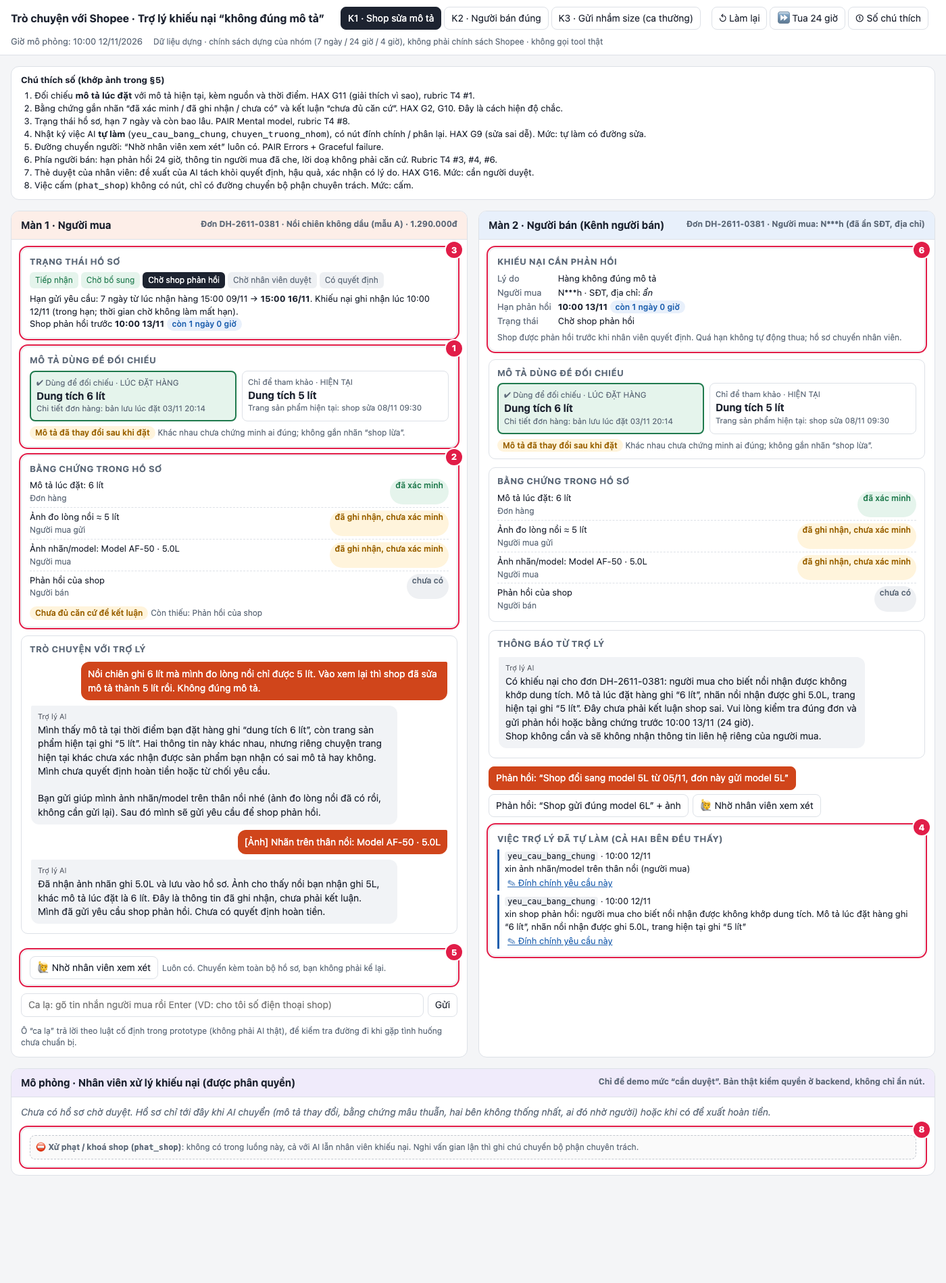
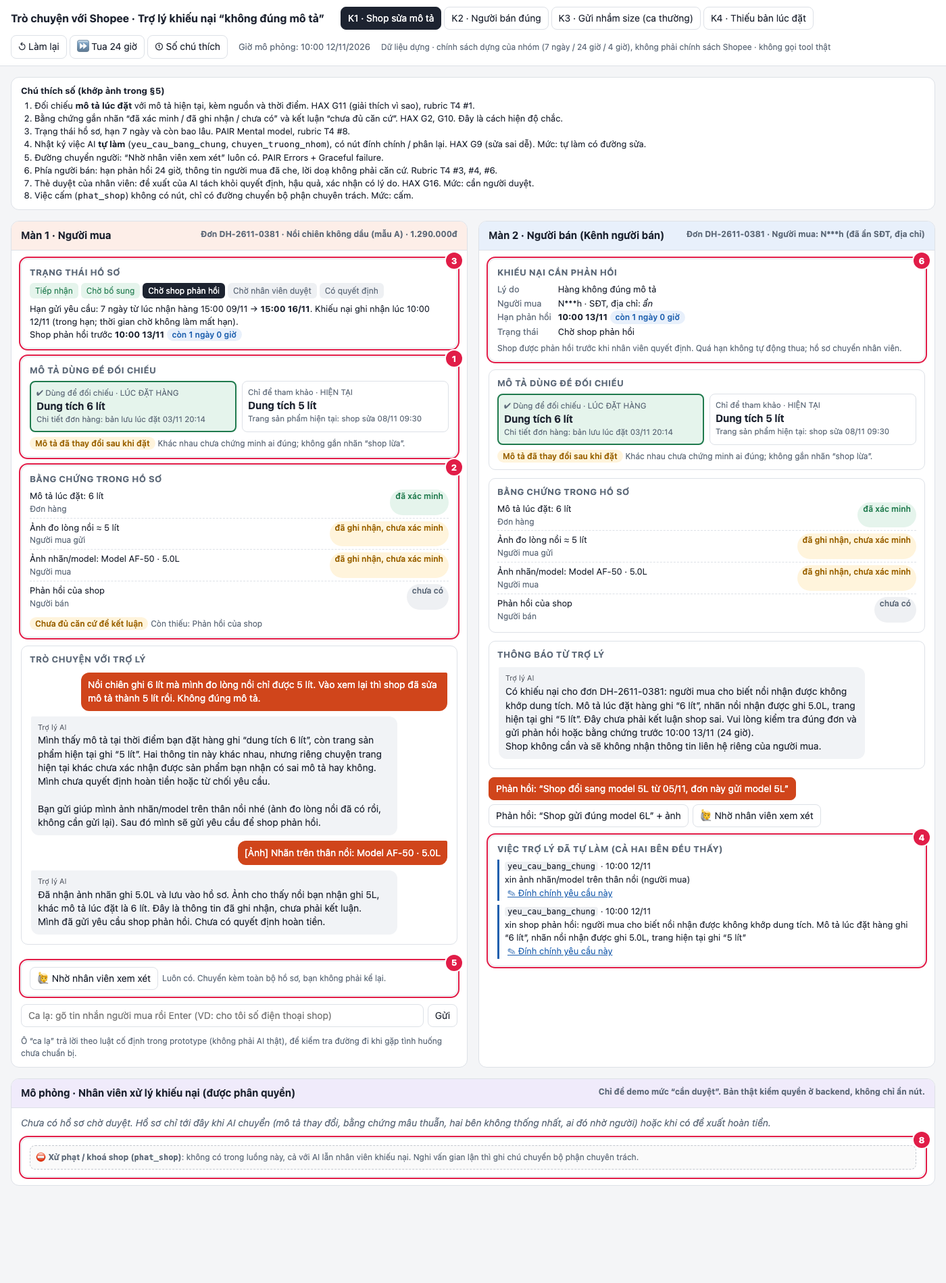
Prototype: khoá duyệt khi thiếu/mâu thuẫn bằng chứng, nộp bổ sung sau khi chuyển nhân viên, thêm ca K4; cập nhật spec §5

Changed region(s): [[0.0, 0.0, 0.9829, 0.9316], [0.9214, 0.0, 0.9829, 0.0311], [0.8907, 0.7142, 0.9521, 0.7453]]

diff --git a/prototype/index.html b/prototype/index.html
@@ -249,7 +249,35 @@ const CASES = {
     ],
     aiFirst:'Mình thấy đơn ghi size L, ảnh tem bạn gửi là size M, và shop đã nhắn xác nhận gửi nhầm. Hồ sơ đã đủ để gửi yêu cầu trả hàng hoàn tiền, bạn không cần gửi lại ảnh.\n\nBước tiếp theo: bấm “Gửi yêu cầu trả hàng hoàn tiền”. Shop có 24 giờ để phản hồi, sau đó nhân viên duyệt hoàn tiền. Gửi yêu cầu chưa có nghĩa là đã được hoàn tiền.',
     firstAsk:null,
+  },
+  K4:{
+    label:'K4 · Thiếu bản lúc đặt', order:'DH-2611-0603', item:'Bình giữ nhiệt (mẫu C)', price:259000,
+    ordered:new Date(2026,10,5,12,30), received:new Date(2026,10,10,10,0),
+    atOrder:null, // không truy xuất được bản mô tả lúc đặt
+    current:{text:'Dung tích 750 ml', src:'Trang sản phẩm hiện tại'},
+    buyerMsg:'Bình ghi 1 lít mà mình nhận được bình 750 ml. Giờ vào trang lại thấy ghi 750 ml.',
+    ev:[
+      {id:'snap',label:'Bản mô tả lúc đặt (không truy xuất được)',src:'Đơn hàng',st:'cc',side:'sys'},
+      {id:'tag',label:'Ảnh nhãn bình: 750 ml',src:'Người mua gửi',st:'gn',side:'mua'},
+      {id:'sresp',label:'Phản hồi của shop',src:'Người bán',st:'cc',side:'ban'},
+    ],
+    aiFirst:'Mình chưa truy xuất được mô tả tại thời điểm bạn đặt hàng, chỉ thấy trang hiện tại ghi 750 ml. Mình sẽ không dùng trang hiện tại để kết luận, vì shop có thể đã sửa sau khi bán.\n\nMình đã chuyển hồ sơ cho nhân viên kiểm tra nguồn lưu và báo shop phản hồi. Chưa có quyết định hoàn tiền hay từ chối. Ảnh nhãn bạn gửi đã có trong hồ sơ, không cần gửi lại.',
+    firstAsk:null,
   }
+};
+/* Bằng chứng bổ sung sau khi hồ sơ đã tới nhân viên (dữ liệu dựng) và đề xuất mới sau khi xem lại */
+const SUPPLY = {
+  model:{label:'Ảnh nhãn/model: Model AF-50 · 5.0L', msg:'[Ảnh] Nhãn trên thân nồi: Model AF-50 · 5.0L',
+    kind:'hoan', text:'Mô tả lúc đặt ghi 6 lít; nhãn nồi nhận được ghi 5.0L. Hàng không khớp mô tả lúc đặt.'},
+  serial:{label:'Ảnh serial AF50-2611-0094 (thuộc lô model 5L)', msg:'[Ảnh] Serial trên thân nồi: AF50-2611-0094',
+    kind:'hoan', text:'Serial trên nồi thuộc lô model 5L, trái với phiếu xuất kho shop gửi (AF-60). Mô tả lúc đặt ghi 6 lít: hàng không khớp mô tả lúc đặt.'},
+  measure2:{label:'Đo chính chiếc áo đã giao: vòng ngực ≈ 95 cm', msg:'[Ảnh] Đo chính chiếc áo, có thước: ngang ngực 47,5 cm',
+    kind:'tuchoi', text:'Đo chính chiếc áo đã giao ≈ 95 cm, trong sai số với bảng size lúc đặt (96 cm). Hàng khớp mô tả; lời doạ không phải căn cứ. Đề xuất từ chối, có lý do.'},
+  measure:{label:'Số đo người mua: vòng ngực ≈ 90 cm', msg:'[Ảnh] Đo ngang ngực áo: 45 cm (≈ 90 cm vòng ngực)',
+    kind:'chua', text:'Số đo người mua ≈ 90 cm khác bảng size lúc đặt (96 cm). Chưa đủ căn cứ: cần ảnh đo chính chiếc áo, có thước rõ.',
+    then:{id:'measure2', label:'Ảnh đo chính chiếc áo đã giao, có thước rõ'}},
+  tagpkg:{label:'Ảnh tem M kèm mã đơn trên bao bì', msg:'[Ảnh] Tem size M dán trên túi có mã đơn',
+    kind:'hoan', text:'Tem M kèm mã đơn trên bao bì xác nhận hàng giao khác đơn (size L). Đề xuất hoàn tiền.'},
 };
 
 /* ===================== TRẠNG THÁI ===================== */
@@ -266,6 +294,11 @@ function reset(key){
   if(key==='K1'){ S.verdict='chua'; S.bAct=[['Bổ sung ảnh nhãn/model', k1AddModel,'primary']]; }
   if(key==='K2'){ S.verdict='chua'; S.bAct=[['Số đo thực tế khác bảng size', k2Measure,'primary'],['Không có gì khác, chỉ là mặc chật', k2JustTight]]; }
   if(key==='K3'){ S.verdict='du'; S.step=0; S.bAct=[['Gửi yêu cầu trả hàng hoàn tiền', k3Submit,'primary']]; }
+  if(key==='K4'){ S.verdict='chua';
+    notifySeller('người mua báo bình nhận được 750 ml. Hệ thống chưa truy xuất được mô tả lúc đặt hàng nên chưa đối chiếu được. Nếu shop có bản mô tả hoặc ảnh trang sản phẩm lúc bán, vui lòng gửi kèm');
+    toStaff('không truy xuất được mô tả lúc đặt', {kind:'chua',
+      text:'Thiếu bản mô tả lúc đặt. AI không đề xuất hoàn hay từ chối và không dùng trang hiện tại thay thế.'});
+  }
   render();
 }
 
@@ -288,6 +321,7 @@ function sysB(t){S.bChat.push({who:'sys',t})}
 function userS(t){S.sChat.push({who:'me s',t}); S.sellerHeard=true;} // người bán đã lên tiếng
 function aiS(t){S.sChat.push({who:'ai',t})}
 function setEv(id, st, label){const e=S.ev.find(x=>x.id===id); if(e){e.st=st; if(label) e.label=label;} else S.ev.push({id,label,src:'Người bán',st,side:'ban'});}
+function needEv(id,label,side='mua'){ if(!S.ev.find(x=>x.id===id)) S.ev.push({id,label,src:side==='mua'?'Người mua':'Người bán',st:'cc',side}); }
 function logTool(tool, text, fixId, money){
   S.log.push({tool,text,at:new Date(S.now),fixId,money,fixed:false});
 }
@@ -303,14 +337,14 @@ function notifySeller(reason){
 function toStaff(why, proposal, viaLead=true){
   S.staffDue = addH(S.now, POLICY.staffHours);
   S.proposal = proposal;
+  (proposal.need||[]).forEach(n=>needEv(n.id,n.label));
   if(viaLead) logTool('chuyen_truong_nhom', `chuyển hồ sơ để phân công nhân viên: ${why}`, 'transfer');
   else logTool('(nội bộ)', `đưa đề xuất vào hàng chờ duyệt của nhân viên: ${why}. Chưa gọi soan_hoan_tien`, null);
   aiB(`Hồ sơ đã được chuyển cho nhân viên xem xét (${why}). Chưa có quyết định hoàn tiền hoặc từ chối. Mục tiêu nhân viên xem trước ${fmt(S.staffDue)}.`);
   aiS(`Hồ sơ đã được chuyển cho nhân viên xem xét (${why}). ` + (S.sellerHeard
       ? 'Phản hồi và bằng chứng của shop đã đi kèm hồ sơ.'
       : `Shop vẫn được gửi phản hồi trước ${fmt(S.sellerDue)}; nhân viên chưa quyết định trước khi shop được nghe.`));
-  S.step = 3; S.bAct=[]; S.sAct=[];
-  if(!S.sellerHeard) S.sAct=[['Gửi phản hồi / bằng chứng cho nhân viên', sellerLateReply,'primary']];
+  S.step = 3; S.bAct=[]; S.sAct=[]; // nút ở bước này do render() sinh theo phần còn thiếu
 }
 function askHuman(side){
   if(S.step>=3){ (side==='b'?aiB:aiS)('Hồ sơ đang ở chỗ nhân viên rồi, không tạo hồ sơ trùng.'); render(); return; }
@@ -318,7 +352,7 @@ function askHuman(side){
   // Chuyển người không được bỏ qua bước nghe người bán: nếu shop chưa được báo thì báo luôn
   if(!S.sellerNotified) notifySeller('người mua báo hàng không đúng mô tả và yêu cầu nhân viên xem xét');
   toStaff(side==='b'?'người mua yêu cầu gặp nhân viên':'người bán yêu cầu nhân viên xem xét',
-    {kind:'chua', text:'Chưa đủ căn cứ để đề xuất hoàn hay từ chối. Một bên yêu cầu người xem xét trước khi thu thập xong bằng chứng.', gaps:missing()});
+    {kind:'chua', text:'Chưa đủ căn cứ để đề xuất hoàn hay từ chối. Một bên yêu cầu người xem xét trước khi thu thập xong bằng chứng.'});
   render();
 }
 function sellerLateReply(){
@@ -326,6 +360,7 @@ function sellerLateReply(){
   setEv('sresp','gn','Shop: đã gửi phản hồi cho nhân viên');
   aiS('Đã nhận và đính kèm vào hồ sơ cho nhân viên.');
   aiB('Shop đã gửi phản hồi; nhân viên sẽ xem cả hai phía.');
+  if(S.proposal) S.proposal.stale=true;
   S.sAct=[]; render();
 }
 function missing(){ return S.ev.filter(e=>e.st==='cc').map(e=>e.label); }
@@ -345,15 +380,16 @@ function tick(){
   S.now = addH(S.now, 24);
   if(S.step===2 && S.sellerDue && S.now>=S.sellerDue){
     S.sellerHeard = true; // shop đã có đủ 24 giờ để phản hồi
+    setEv('sresp','qh','Shop không phản hồi trong 24 giờ');
     aiS('Đã quá hạn phản hồi 24 giờ. Hồ sơ được chuyển nhân viên đánh giá với thông tin hiện có. Shop vẫn có thể gửi bằng chứng cho nhân viên.');
     sysB('Shop chưa phản hồi sau 24 giờ. Việc shop im lặng không tự động có nghĩa bên nào thắng.');
     toStaff('shop quá hạn phản hồi', {kind: S.key==='K2'?'chua':'hoan',
       text: S.key==='K2' ? 'Shop chưa phản hồi, nhưng hàng vẫn khớp đơn và bảng size lúc đặt. Chưa đủ căn cứ để hoàn; cân nhắc thêm bằng chứng.' :
             S.key==='K1' ? 'Mô tả lúc đặt 6 lít; ảnh nhãn nồi nhận được 5.0L; shop không phản hồi. Bằng chứng nghiêng về hàng không khớp mô tả lúc đặt.' :
-            'Đơn ghi L, tem M, shop từng nhắn thừa nhận gửi nhầm; shop không phản hồi trong hạn.',
-      gaps:['Phản hồi của shop (quá hạn)']});
+            'Đơn ghi L, tem M, shop từng nhắn thừa nhận gửi nhầm; shop không phản hồi trong hạn.'});
   } else if(S.step===3 && !S.sellerHeard && S.sellerDue && S.now>=S.sellerDue){
     S.sellerHeard = true; S.sAct=[];
+    setEv('sresp','qh','Shop không phản hồi trong 24 giờ');
     aiS('Đã quá hạn phản hồi 24 giờ. Nhân viên sẽ quyết định với thông tin hiện có.');
     sysB('Shop chưa phản hồi sau 24 giờ. Việc shop im lặng không tự động có nghĩa bên nào thắng.');
   } else if(S.step===3 && !S.decision && !S.staffReminded && S.staffDue && S.now>=S.staffDue){
@@ -385,7 +421,7 @@ function k1SellerAdmit(){
   aiB('Shop đã phản hồi: shop xác nhận đơn này gửi model 5L và đã sửa mô tả sau ngày bạn đặt.');
   toStaff('mô tả đã thay đổi sau khi đặt', {kind:'hoan',
     text:'Mô tả lúc đặt ghi 6 lít; nhãn nồi nhận được 5.0L; shop xác nhận gửi model 5L. Bằng chứng hai bên khớp nhau: hàng không đúng mô tả lúc đặt.',
-    gaps:[]});
+});
   render();
 }
 function k1SellerDeny(){
@@ -395,7 +431,7 @@ function k1SellerDeny(){
   aiB('Shop phản hồi rằng đã gửi model 6L. Thông tin này khác với ảnh nhãn 5.0L của bạn, nên mình không tự kết luận.');
   toStaff('bằng chứng hai bên mâu thuẫn', {kind:'chua',
     text:'Mâu thuẫn: nhãn nồi do người mua chụp ghi 5.0L, còn phiếu xuất kho của shop ghi AF-60 (6L). AI không đề xuất hoàn hay từ chối.',
-    gaps:['Ảnh nhãn chụp rõ số serial', 'Đối chiếu serial với phiếu xuất kho']});
+    need:[{id:'serial', label:'Ảnh serial trên thân nồi, chụp rõ'}]});
   render();
 }
 
@@ -410,6 +446,7 @@ function k2Measure(){
 }
 function k2JustTight(){
   S.path='tight';
+  setEv('measure','kh','Số đo: người mua xác nhận không có điểm khác bảng size');
   userB('Không có gì khác, chỉ là mặc chật.');
   aiB('Cảm ơn bạn. Theo thông tin hiện có, áo đúng size M và khớp bảng size lúc đặt, nên hiện chưa đủ căn cứ cho khiếu nại “không đúng mô tả”. Mình không đóng yêu cầu của bạn.\nBạn có thể vẫn gửi khiếu nại (shop sẽ được hỏi ý kiến, nhân viên quyết định), bổ sung số đo nếu thấy khác bảng size, hoặc rút yêu cầu.');
   S.bAct=[['Vẫn gửi khiếu nại', k2StillSend,'primary'],['Bổ sung số đo', k2Measure],['Rút yêu cầu', buyerWithdraw]];
@@ -440,9 +477,9 @@ function k2Escalate(){
   const measure = S.path==='measure';
   toStaff('hai bên chưa thống nhất', measure ? {kind:'chua',
       text:'Số đo hai bên mâu thuẫn: người mua ≈ 90 cm, shop 96 cm (áo cùng lô, không phải chính áo đã giao). Chưa đủ căn cứ.',
-      gaps:['Ảnh đo chính chiếc áo đã giao, có thước rõ']} : {kind:'tuchoi',
+      need:[{id:'measure2', label:'Ảnh đo chính chiếc áo đã giao, có thước rõ'}]} : {kind:'tuchoi',
       text:'Hàng khớp đơn (size M), tem M, bảng size lúc đặt không đổi; người mua không nêu điểm sai mô tả nào. Lời doạ bóc phốt không phải căn cứ. Đề xuất từ chối, có lý do.',
-      gaps:[]});
+});
   render();
 }
 
@@ -467,7 +504,7 @@ function k3SellerDeny(){
   setEv('sresp','gn','Shop: gửi đúng size L (trái với tin nhắn trước)');
   aiS('Đã ghi nhận. Phản hồi này khác tin nhắn trước của shop nên hồ sơ được chuyển nhân viên.');
   toStaff('phản hồi của shop mâu thuẫn tin nhắn trước', {kind:'chua',
-    text:'Shop từng nhắn “gửi nhầm size” nhưng nay nói gửi đúng L; ảnh tem do người mua chụp ghi M.', gaps:['Ảnh tem kèm mã đơn trên bao bì']});
+    text:'Shop từng nhắn “gửi nhầm size” nhưng nay nói gửi đúng L; ảnh tem do người mua chụp ghi M.', need:[{id:'tagpkg', label:'Ảnh tem kèm mã đơn trên bao bì'}]});
   render();
 }
 function sellerAgree(){
@@ -476,7 +513,7 @@ function sellerAgree(){
   aiS('Đã ghi nhận. Hoàn tiền vẫn cần nhân viên duyệt; shop sẽ nhận thông báo kết quả.');
   aiB('Shop đã đồng ý nhận lại hàng.');
   toStaff('hai bên đồng thuận trả hàng hoàn tiền', {kind:'hoan',
-    text:'Hai bên đồng thuận: hàng giao khác đơn, shop đồng ý nhận lại. Đề xuất hoàn tiền.', gaps:[]}, false);
+    text:'Hai bên đồng thuận: hàng giao khác đơn, shop đồng ý nhận lại. Đề xuất hoàn tiền.'}, false);
   render();
 }
 function buyerWithdraw(){
@@ -516,6 +553,7 @@ function freeText(t){
 
 /* ===================== NHÂN VIÊN ===================== */
 function staffDecide(kind){
+  if(S.decision || blockReasons().length){ render(); return; } // chặn cả khi gọi thẳng hàm
   const c=S.c, P=S.proposal;
   const isRefund = kind==='hoan';
   openDlg(isRefund?'Duyệt hoàn tiền: soan_hoan_tien':'Duyệt từ chối: tu_choi_khieu_nai',
@@ -529,6 +567,7 @@ function staffDecide(kind){
      <label><input type="checkbox" class="chk"> Lời doạ hay lịch sử một bên không phải căn cứ của quyết định này</label>
      <label>Lý do (bắt buộc, gửi cho cả hai bên)<textarea id="reason"></textarea></label>`,
     isRefund?'Xác nhận hoàn tiền':'Xác nhận từ chối', ()=>{
+      if(S.decision || blockReasons().length){ render(); return; }
       const r=$('reason').value.trim();
       S.decision={kind, text:r};
       logTool(isRefund?'soan_hoan_tien':'tu_choi_khieu_nai', `nhân viên duyệt: ${r}. Đã thực hiện, không hoàn tác`, null, true);
@@ -543,11 +582,35 @@ function staffDecide(kind){
     }, true);
 }
 function staffAskMore(){
-  const g = (S.proposal&&S.proposal.gaps.length)? S.proposal.gaps.join(', ') : 'ảnh rõ hơn phần không khớp';
+  const g = missing().join(', ') || 'ảnh rõ hơn phần không khớp';
   logTool('yeu_cau_bang_chung', `nhân viên xin thêm: ${g}`, null);
   aiB(`Nhân viên cần thêm: ${g}. Hồ sơ vẫn mở, thời điểm ghi nhận ${fmt(S.recorded)} giữ nguyên.`);
   aiS(`Nhân viên có thể cần thêm thông tin từ shop: ${g}.`);
   S.proposal.asked=true; render();
+}
+function staffLookup(){
+  logTool('chuyen_truong_nhom','chuyển bộ phận dữ liệu tra cứu nguồn lưu bản mô tả lúc đặt. Hồ sơ vẫn mở, không quyết định tiền', null);
+  aiB('Nhân viên đã chuyển tra cứu bản mô tả lúc đặt. Hồ sơ vẫn mở; chưa có quyết định hoàn tiền hay từ chối.');
+  S.proposal.lookup=true; render();
+}
+function supply(id){
+  const sp = SUPPLY[id]; if(!sp) return;
+  userB(sp.msg);
+  setEv(id,'gn',sp.label);
+  if(sp.then) needEv(sp.then.id, sp.then.label);
+  logTool('(hồ sơ)', `người mua bổ sung cho nhân viên: ${sp.label}`, null);
+  aiB(`Đã nhận và đính kèm cho nhân viên: ${sp.label}. Thời điểm ghi nhận ${fmt(S.recorded)} giữ nguyên.`);
+  aiS(`Người mua đã bổ sung: ${sp.label}. Shop có thể xem trong hồ sơ.`);
+  if(S.proposal){ S.proposal.stale=true; S.proposal.lastSupply=id; S.proposal.asked=false; }
+  render();
+}
+function reviewProposal(){
+  const P=S.proposal, sp=SUPPLY[P.lastSupply]; P.stale=false;
+  const miss=missing();
+  if(miss.length){ P.kind='chua'; P.text='Vẫn còn thiếu hoặc mâu thuẫn: '+miss.join('; ')+'. AI không đề xuất.'; }
+  else if(sp){ P.kind=sp.kind; P.text=sp.text; }
+  logTool('(nội bộ)','AI cập nhật đề xuất theo bằng chứng mới; nhân viên đã xem lại', null);
+  render();
 }
 function staffSpecial(){
   logTool('chuyen_truong_nhom','nhân viên ghi chú chuyển bộ phận chuyên trách (nghi vấn sửa mô tả sau bán). Không gọi phat_shop', null);
@@ -569,9 +632,15 @@ $('dlgCancel').onclick=()=>$('dlg').close();
 $('dlgOk').onclick=()=>{ $('dlg').close(); const cb=dlgCb; dlgCb=null; cb&&cb(); };
 
 /* ===================== RENDER ===================== */
-const ST = {xm:['đã xác minh','t-ok'], gn:['đã ghi nhận, chưa xác minh','t-warn'], cc:['chưa có','t-mute']};
+const ST = {xm:['đã xác minh','t-ok'], gn:['đã ghi nhận, chưa xác minh','t-warn'], cc:['chưa có','t-mute'], qh:['quá hạn, đã đủ thời gian','t-mute'], kh:['không áp dụng','t-mute']};
 function cmpHtml(){
-  const c=S.c, diff = c.atOrder.text!==c.current.text;
+  const c=S.c;
+  if(!c.atOrder) return `<div class="cmp">
+     <div class="ver" style="border:2px solid var(--bad);background:var(--bad-soft)"><small>✖ LÚC ĐẶT HÀNG</small><b>Không truy xuất được</b><small>Chưa có bản lưu đáng tin cho đơn này</small></div>
+     <div class="ver"><small>Chỉ để tham khảo · HIỆN TẠI</small><b>${c.current.text}</b><small>${c.current.src}</small></div>
+   </div>
+   <div style="margin-top:6px"><span class="tag t-bad">Thiếu bản lúc đặt: không kết luận</span> <span class="note">Không dùng trang hiện tại thay thế; hồ sơ chuyển nhân viên.</span></div>`;
+  const diff = c.atOrder.text!==c.current.text;
   return `<div class="cmp">
      <div class="ver main"><small>✔ Dùng để đối chiếu · LÚC ĐẶT HÀNG</small><b>${c.atOrder.text}</b><small>${c.atOrder.src}</small></div>
      <div class="ver"><small>Chỉ để tham khảo · HIỆN TẠI</small><b>${c.current.text}</b><small>${c.current.src}</small></div>
@@ -616,8 +685,14 @@ function render(){
   $('bVerdict').innerHTML = verdictHtml();
   $('bChat').innerHTML = chatHtml(S.bChat); $('sChat').innerHTML = chatHtml(S.sChat, true);
   $('bChat').scrollTop=1e6; $('sChat').scrollTop=1e6;
-  btns(S.bAct, $('bAct'));
-  btns(S.sellerNotified ? S.sAct.concat(S.step===2?[['🙋 Nhờ nhân viên xem xét',()=>askHuman('s')]]:[]) : [], $('sAct'));
+  let bA=S.bAct, sA=S.sAct;
+  if(S.step===3 && !S.decision){
+    bA = S.ev.filter(e=>e.st==='cc' && e.side==='mua' && SUPPLY[e.id]).map(e=>['📎 Nộp bổ sung: '+e.label, ()=>supply(e.id), 'primary']);
+    const sr = S.ev.find(e=>e.id==='sresp');
+    sA = (sr && sr.st==='cc') ? [['Gửi phản hồi / bằng chứng cho nhân viên', sellerLateReply,'primary']] : [];
+  }
+  btns(bA, $('bAct'));
+  btns(S.sellerNotified ? sA.concat(S.step===2?[['🙋 Nhờ nhân viên xem xét',()=>askHuman('s')]]:[]) : [], $('sAct'));
   $('bHuman').disabled = S.step>=4;
   // seller head
   $('sHead').innerHTML = S.sellerNotified
@@ -635,6 +710,15 @@ function render(){
     : '<li class="empty" style="border:none">Chưa có.</li>';
   renderStaff();
 }
+// Điều kiện duyệt tiền (§4). Kiểm cả trong hàm duyệt, không chỉ ẩn nút.
+function blockReasons(){
+  const c=S.c, P=S.proposal||{}, r=[], miss=missing();
+  if(!S.sellerHeard) r.push(`Người bán chưa phản hồi và chưa hết hạn 24 giờ (đến ${fmt(S.sellerDue)}).`);
+  if(!c.atOrder) r.push('Không có bản mô tả lúc đặt: không đối chiếu được, không dùng trang hiện tại thay thế.');
+  if(miss.length) r.push(`Còn thiếu hoặc mâu thuẫn: ${miss.join('; ')}.`);
+  if(P.stale) r.push('Có bằng chứng mới sau đề xuất cũ: cần bấm “Xem lại đề xuất” trước.');
+  return r;
+}
 function renderStaff(){
   const el=$('staff'), P=S.proposal, c=S.c;
   const banned = `<div class="box" data-mk="8"><span class="mk">8</span><div class="banned">⛔ <b>Xử phạt / khoá shop (<code>phat_shop</code>)</b>: không có trong luồng này, cả với AI lẫn nhân viên khiếu nại. Nghi vấn gian lận thì ghi chú chuyển bộ phận chuyên trách.</div></div>`;
@@ -644,24 +728,28 @@ function renderStaff(){
   }
   const kindTag = {hoan:'<span class="tag t-info">AI đề xuất: hoàn tiền</span>', tuchoi:'<span class="tag t-info">AI đề xuất: từ chối</span>', chua:'<span class="tag t-warn">AI: chưa đủ căn cứ, không đề xuất</span>'}[P.kind];
   const done = !!S.decision;
-  const block = done || !S.sellerHeard; // chưa nghe người bán thì chưa được quyết định tiền
+  const miss = missing();
+  const reasons = blockReasons();
+  const block = done || reasons.length>0;
   el.innerHTML = `
    <div class="box" data-mk="7"><span class="mk">7</span>
      <h3>Hồ sơ ${c.order} · ${c.item} · ${money(c.price)}</h3>
      <div class="kv"><span>Đặt / nhận</span><span>${fmt(c.ordered)} / ${fmt(c.received)}</span>
        <span>Ghi nhận khiếu nại</span><span>${fmt(S.recorded)} (trong hạn 7 ngày)</span>
-       <span>Mô tả lúc đặt</span><span><b>${c.atOrder.text}</b> · ${c.atOrder.src}</span>
+       <span>Mô tả lúc đặt</span><span>${c.atOrder?`<b>${c.atOrder.text}</b> · ${c.atOrder.src}`:'<span class="tag t-bad">không truy xuất được</span>'}</span>
        <span>Mô tả hiện tại</span><span>${c.current.text} · ${c.current.src}</span>
        <span>Bằng chứng</span><span>${S.ev.map(e=>`${e.label} <span class="tag ${ST[e.st][1]}">${ST[e.st][0]}</span>`).join('<br>')}</span>
-       <span>Còn thiếu / mâu thuẫn</span><span>${P.gaps.length?P.gaps.join('; '):'Không'}</span></div>
-     <div class="propose" style="margin-top:8px">${kindTag}<br>${P.text}<br><span class="note">Đây là đề xuất của AI, không phải quyết định. Không có % tự tin, chỉ có căn cứ ở trên.</span></div>
+       <span>Còn thiếu / mâu thuẫn</span><span>${miss.length?miss.join('; '):'Không'}</span></div>
+     <div class="propose" style="margin-top:8px">${kindTag}${P.stale?' <span class="tag t-warn">có bằng chứng mới, đề xuất cũ cần xem lại</span>':''}<br>${P.text}<br><span class="note">Đây là đề xuất của AI, không phải quyết định. Không có % tự tin, chỉ có căn cứ ở trên.</span></div>
      <div class="actions" style="margin-top:8px">
        <button class="staff" ${block?'disabled':''} onclick="staffDecide('hoan')">Duyệt hoàn tiền…</button>
        <button class="staff" ${block?'disabled':''} onclick="staffDecide('tuchoi')">Duyệt từ chối…</button>
+       ${P.stale&&!done?`<button class="primary" onclick="reviewProposal()">Xem lại đề xuất với bằng chứng mới</button>`:''}
        <button ${done||P.asked?'disabled':''} onclick="staffAskMore()">Yêu cầu bổ sung</button>
+       ${!c.atOrder?`<button ${done||P.lookup?'disabled':''} onclick="staffLookup()">Chuyển tra cứu nguồn lưu mô tả</button>`:''}
        ${S.key==='K1'?`<button ${done||P.special?'disabled':''} onclick="staffSpecial()">Ghi chú chuyển bộ phận chuyên trách</button>`:''}
      </div>
-     ${!done && !S.sellerHeard?`<div style="margin-top:8px"><span class="tag t-warn">Chưa thể duyệt</span> <span class="note">Người bán chưa phản hồi và chưa hết hạn 24 giờ (đến ${fmt(S.sellerDue)}). Hai bên phải được nghe trước khi quyết định tiền.</span></div>`:''}
+     ${!done && reasons.length?`<div style="margin-top:8px"><span class="tag t-warn">Chưa thể duyệt</span><ul class="note" style="margin:4px 0 0;padding-left:18px">${reasons.map(r=>`<li>${r}</li>`).join('')}</ul></div>`:''}
      ${done?`<div style="margin-top:8px"><span class="tag t-ok">Đã quyết định một lần cho phiên bản hồ sơ này</span> <span class="note">Nút bị khoá để tránh thực hiện lặp.</span></div>`:''}
    </div>`+banned;
 }

diff --git a/prototype/README.md b/prototype/README.md
@@ -7,6 +7,7 @@
    - **K1 · Shop sửa mô tả**: lúc đặt ghi 6 lít, trang hiện tại ghi 5 lít.
    - **K2 · Người bán đúng**: đặt áo M, nhận đúng M, người mua doạ bóc phốt.
    - **K3 · Gửi nhầm size**: ca thường.
+   - **K4 · Thiếu bản lúc đặt**: không truy xuất được mô tả lúc đặt. AI không kết luận, chuyển nhân viên, nút duyệt bị khoá.
 3. Bấm các nút màu cam ở Màn 1 (người mua), rồi các nút ở Màn 2 (người bán). Khi hồ sơ tới vùng **Mô phỏng · Nhân viên**, bấm "Duyệt hoàn tiền…" hoặc "Duyệt từ chối…".
 4. Nút ở thanh trên:
    - **⏩ Tua 24 giờ**: xem trường hợp người bán quá hạn phản hồi, hoặc nhân viên quá mục tiêu 4 giờ.
@@ -24,7 +25,8 @@
 Các nhánh khác nên thử:
 
 - **K1, shop không phản hồi:** sau bước 2, bấm **⏩ Tua 24 giờ**. Hồ sơ chuyển cho nhân viên, nhưng shop không tự động thua.
-- **K1, hai bên mâu thuẫn:** ở bước 3, chọn **"Shop gửi đúng model 6L"**. AI không đề xuất hoàn hay từ chối.
+- **K1, hai bên mâu thuẫn:** ở bước 3, chọn **"Shop gửi đúng model 6L"**. AI không đề xuất hoàn hay từ chối, nút duyệt khoá. Người mua bấm **"📎 Nộp bổ sung: Ảnh serial…"**, nhân viên bấm **"Xem lại đề xuất với bằng chứng mới"**, rồi mới duyệt được.
+- **K1, gặp nhân viên ngay:** bấm **"🙋 Nhờ nhân viên xem xét"** trước khi bổ sung gì. Nút duyệt khoá vì còn thiếu ảnh nhãn và phản hồi shop. Người mua nộp bổ sung, shop gửi phản hồi, nhân viên xem lại đề xuất, rồi mới duyệt được.
 - **K2:** chọn "Không có gì khác, chỉ là mặc chật" → "Vẫn gửi khiếu nại" → shop gửi ảnh đo → "Vẫn muốn nhân viên xem xét". AI đề xuất **từ chối** kèm lý do, nhưng vẫn cần nhân viên duyệt.
 
 ## §5. Prototype (để ráp vào spec.md)
@@ -54,7 +56,7 @@ Các nhánh khác nên thử:
 | 4 | Nhật ký **việc AI tự làm** (`yeu_cau_bang_chung`, `chuyen_truong_nhom`), cả hai bên đều thấy. Mỗi dòng có nút **Đính chính** hoặc **Yêu cầu phân lại**. | HAX **G9** (sửa sai dễ) | **Tự làm, có đường sửa** |
 | 5 | Nút "Nhờ nhân viên xem xét" luôn có. Hồ sơ chuyển đi kèm đủ bằng chứng, người dùng không phải kể lại. | PAIR Errors + Graceful failure · HAX G10 | Đường chuyển người |
 | 6 | Phía người bán: hạn 24 giờ, thông tin người mua đã che (N\*\*\*h, ẩn SĐT và địa chỉ), quá hạn không tự động thua, lời doạ không phải căn cứ. | PAIR Trust · rubric T4 #3, #4, #6 | — |
-| 7 | Thẻ duyệt của nhân viên: toàn bộ căn cứ, phần còn thiếu, **đề xuất của AI tách riêng khỏi quyết định**. Hộp xác nhận ghi hậu quả "khó đảo lại", có 3 ô kiểm và lý do bắt buộc. Sau khi duyệt thì nút bị khoá để không chạy lặp. Nút duyệt cũng khoá khi người bán chưa được nghe (chưa phản hồi và chưa hết 24 giờ). | HAX **G16** (cho thấy hậu quả) | **Cần người duyệt** (`soan_hoan_tien`, `tu_choi_khieu_nai`) |
+| 7 | Thẻ duyệt của nhân viên: toàn bộ căn cứ, phần còn thiếu, **đề xuất của AI tách riêng khỏi quyết định**. Hộp xác nhận ghi hậu quả "khó đảo lại", có 3 ô kiểm và lý do bắt buộc. Nút duyệt **khoá** khi: người bán chưa được nghe (chưa phản hồi, chưa hết 24 giờ); còn thiếu hoặc mâu thuẫn bằng chứng; không có bản mô tả lúc đặt; hoặc có bằng chứng mới mà nhân viên chưa bấm "Xem lại đề xuất". Thẻ liệt kê lý do đang bị khoá. Điều kiện được kiểm cả trong hàm duyệt, không chỉ ẩn nút. Sau khi duyệt, nút khoá để không chạy lặp. | HAX **G16** (cho thấy hậu quả) | **Cần người duyệt** (`soan_hoan_tien`, `tu_choi_khieu_nai`) |
 | 8 | `phat_shop` **không có nút** ở bất kỳ màn nào, chỉ có dòng giải thích và đường "ghi chú chuyển bộ phận chuyên trách". | — | **Cấm** |
 
 ### Quyết định về cách hiện
@@ -92,7 +94,7 @@ Các nhánh khác nên thử:
 
 - **Ô ca lạ** chỉ nhận diện theo từ khoá, chưa phải AI thật. Tin không khớp từ khoá nào thì đi đường an toàn: hỏi lại, hoặc gợi ý chuyển nhân viên.
 - **Kiểm quyền duyệt** chỉ mô phỏng bằng giao diện. Bản thật phải kiểm quyền ở backend.
-- **Khi bằng chứng mới tới sau lúc đã có đề xuất**, prototype chưa bắt buộc nhân viên duyệt lại (`draft-autonomy.md` §4.3).
+- **Bằng chứng bổ sung** sau khi chuyển nhân viên (nút "📎 Nộp bổ sung") là dữ liệu dựng có sẵn, chưa tải ảnh thật.
 
 ## §7. Demo (điền sau buổi demo)
 

diff --git a/spec.md b/spec.md
@@ -98,10 +98,11 @@ Thêm:
 - **Link chạy trực tiếp:** <https://raw.githack.com/laminh-h/K5-L3A-Day05-T4-DenHong/main/prototype/index.html> (cần repo công khai).
 - **Cách chạy và luồng demo:** [`prototype/README.md`](prototype/README.md).
 - **Công cụ:** một file HTML/JS thuần, dựng với sự hỗ trợ của coding agent (Claude).
-- **Ba ca bấm được** (chọn ở thanh trên cùng):
+- **Bốn ca bấm được** (chọn ở thanh trên cùng):
   - **K1 · Shop sửa mô tả:** kịch bản #2 ở §2. Lúc đặt ghi 6 lít, trang hiện tại ghi 5 lít, nhãn nồi nhận được ghi 5.0L.
   - **K2 · Người bán đúng:** đặt áo M, nhận đúng M, khách mặc chật và doạ bóc phốt. Cùng loại rủi ro "người bán đúng" với kịch bản #4 (top 1) ở §2; prototype dùng áo M để thêm cả lời doạ.
   - **K3 · Gửi nhầm size:** ca thường, kịch bản #3 ở §2.
+  - **K4 · Thiếu bản lúc đặt:** không truy xuất được mô tả lúc đặt, chỉ có trang hiện tại (750 ml). Dùng để kiểm tiêu chí P1: AI không kết luận, chuyển nhân viên, và không ai duyệt được tiền.
 - **Phần mock:**
   - dữ liệu đơn, mô tả lúc đặt và hiện tại, ảnh (hiện bằng chữ `[Ảnh] …`)
   - đồng hồ mô phỏng, có nút "⏩ Tua 24 giờ" để xem xử lý quá hạn
@@ -130,7 +131,7 @@ Thêm:
 | ④ | Nhật ký việc AI tự làm (`yeu_cau_bang_chung`, `chuyen_truong_nhom`). Cả hai bên đều thấy. Mỗi dòng có nút **✎ Đính chính** hoặc **↩ Yêu cầu phân lại**. | **G9** sửa sai dễ | **Tự làm, có đường sửa** |
 | ⑤ | Nút "🙋 Nhờ nhân viên xem xét" luôn có. Hồ sơ chuyển đi kèm đủ bằng chứng, người dùng không phải kể lại. | PAIR Errors + Graceful failure | Đường chuyển người |
 | ⑥ | Phía người bán: hạn phản hồi 24 giờ và thời gian còn lại; người mua hiện là N\*\*\*h, ẩn SĐT và địa chỉ; ghi rõ quá hạn không tự động thua và lời doạ không phải căn cứ. | PAIR Trust · rubric T4 #3, #4, #6 | — |
-| ⑦ | Thẻ duyệt của nhân viên: toàn bộ căn cứ, phần còn thiếu, **đề xuất của AI tách riêng** và ghi "không phải quyết định". Hộp xác nhận ghi hậu quả "khó đảo lại", 3 ô kiểm và lý do bắt buộc. Nút duyệt khoá khi người bán chưa được nghe, và khoá sau khi đã duyệt. | **G16** cho thấy hậu quả | **Cần người duyệt** (`soan_hoan_tien`, `tu_choi_khieu_nai`) |
+| ⑦ | Thẻ duyệt của nhân viên: toàn bộ căn cứ, phần còn thiếu, **đề xuất của AI tách riêng** và ghi "không phải quyết định". Hộp xác nhận ghi hậu quả "khó đảo lại", 3 ô kiểm và lý do bắt buộc. Nút duyệt **khoá** khi: người bán chưa được nghe (chưa phản hồi, chưa hết 24 giờ); còn thiếu hoặc mâu thuẫn bằng chứng; không có bản mô tả lúc đặt; hoặc có bằng chứng mới mà nhân viên chưa bấm "Xem lại đề xuất". Thẻ liệt kê lý do đang bị khoá. Điều kiện được kiểm cả trong hàm duyệt, không chỉ ẩn nút. Sau khi duyệt, nút khoá để không chạy lặp. | **G16** cho thấy hậu quả | **Cần người duyệt** (`soan_hoan_tien`, `tu_choi_khieu_nai`) |
 | ⑧ | `phat_shop` **không có nút** ở bất kỳ màn nào, chỉ có dòng giải thích và đường "ghi chú chuyển bộ phận chuyên trách". | — | **Cấm** |
 
 ### Quyết định về cách hiện
@@ -181,8 +182,7 @@ Thêm:
 **Giới hạn đã biết:**
 - Ô ca lạ chỉ nhận diện theo từ khoá, chưa phải AI thật.
 - Kiểm quyền duyệt chỉ mô phỏng bằng giao diện. Bản thật phải kiểm quyền ở backend.
-- Khi bằng chứng mới tới sau lúc đã có đề xuất, prototype chưa bắt nhân viên duyệt lại.
-- Chưa có màn riêng cho ca "thiếu snapshot mô tả lúc đặt".
+- Bằng chứng bổ sung sau khi chuyển nhân viên (nút "📎 Nộp bổ sung") là dữ liệu dựng có sẵn, chưa tải ảnh thật.
 
 ## §6. Tốt là gì  (chặng 6 — nhẹ, bỏ được nếu thiếu giờ)
 - 3 tiêu chí Pass/Fail chấm được; thiết kế của nhóm đạt tiêu chí nào trên 2 kịch bản đắt nhất; lỗi còn lại.
